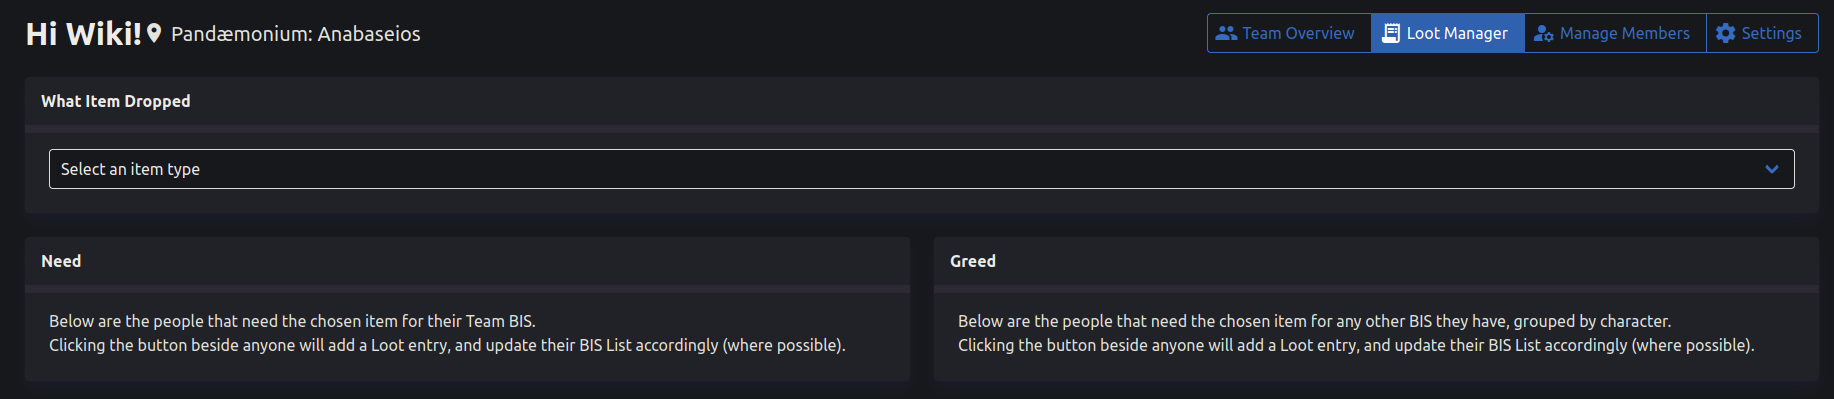
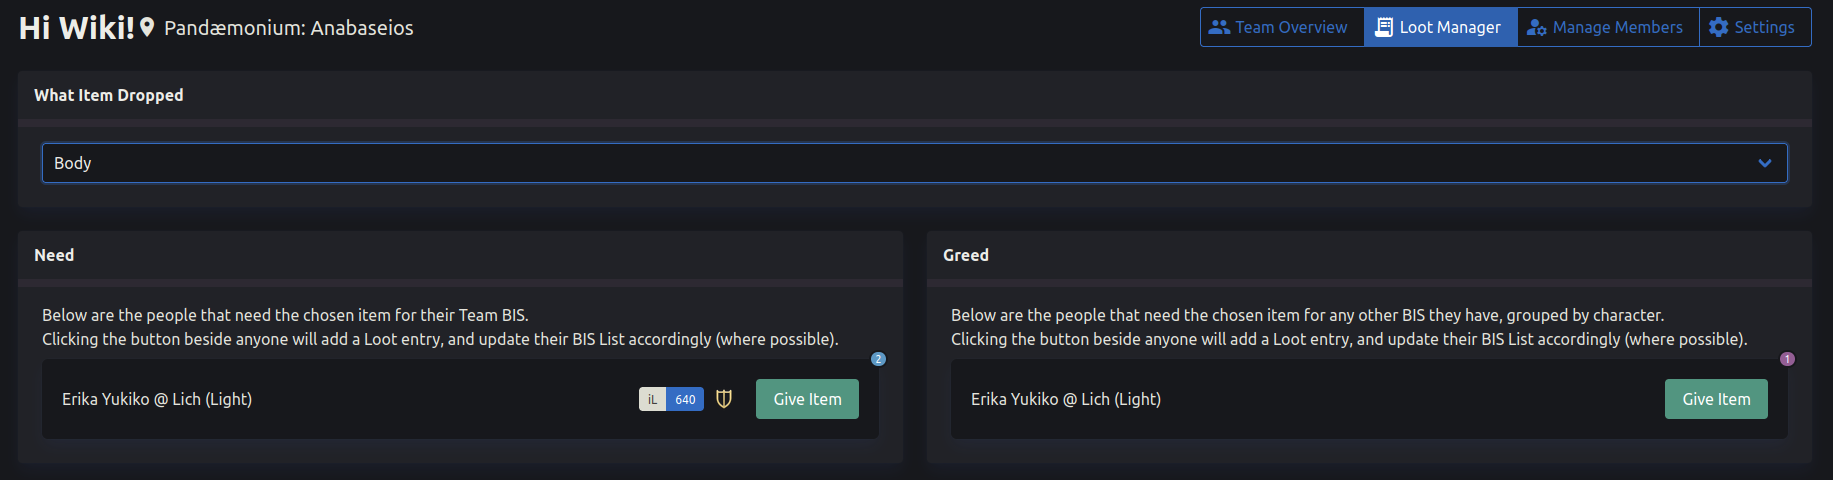
added the bones of a per fight loot manager

diff --git a/frontend/src/components/loot_manager/per_fight.vue b/frontend/src/components/loot_manager/per_fight.vue
@@ -1,0 +1,219 @@
+<template>
+  <div class="columns is-desktop is-multiline">
+    <div class="column is-full">
+      <div class="card">
+        <div class="card-header">
+          <div class="card-header-title">
+            Select a Fight
+          </div>
+        </div>
+        <div class="card-content">
+          <div class="field">
+            <div class="select is-fullwidth">
+              <select v-model="fight">
+                <option value="na">Select a Fight</option>
+                <option value="first">Anabaseios: The Ninth Circle</option>
+                <option value="second">Anabaseios: The Tenth Circle</option>
+                <option value="third">Anabaseios: The Eleventh Circle</option>
+                <option value="fourth">Anabaseios: The Twelfth Circle</option>
+              </select>
+            </div>
+          </div>
+
+          <!-- Display generic errors here -->
+          <div class="box has-background-danger" v-if="errors.greed !== undefined">
+            <b>Greed: </b> {{ errors.greed[0] }}
+          </div>
+          <div class="box has-background-danger" v-if="errors.greed_bis_id !== undefined">
+            <b>Greed BIS ID:</b> {{ errors.greed_bis_id[0] }}
+          </div>
+          <div class="box has-background-danger" v-if="errors.item !== undefined">
+            <b>Item: </b> {{ errors.item[0] }}
+          </div>
+          <div class="box has-background-danger" v-if="errors.member_id !== undefined">
+            <b>Member ID:</b> {{ errors.member_id[0] }}
+          </div>
+        </div>
+      </div>
+      <button class="button is-success is-fullwidth">Save Loot Assigments</button>
+    </div>
+
+    <div class="column" v-for="item in fightItems()" :key="item">
+      <div class="card">
+        <div class="card-header">
+          <div class="card-header-title">
+            {{ item }}
+          </div>
+        </div>
+        <div class="card-content">
+          <a class="box">
+            Select a Team Member
+          </a>
+        </div>
+      </div>
+    </div>
+  </div>
+</template>
+
+<script lang="ts">
+import dayjs from 'dayjs'
+import { Component, Prop, Vue } from 'vue-property-decorator'
+import GreedCharacterEntry from '@/components/loot/greed_character_entry.vue'
+import History from '@/components/loot/history.vue'
+import ItemDropdown from '@/components/item_dropdown.vue'
+import NeedRaidItemBox from '@/components/loot/need_raid_item_box.vue'
+import NeedTomeItemBox from '@/components/loot/need_tome_item_box.vue'
+import {
+  GreedGear,
+  GreedItem,
+  NeedGear,
+  Loot,
+  LootData,
+  LootPacket,
+  LootWithBISPacket,
+  TomeGreedGear,
+  TomeNeedGear,
+} from '@/interfaces/loot'
+import { LootCreateErrors, LootBISCreateErrors } from '@/interfaces/responses'
+
+@Component({
+  components: {
+    GreedCharacterEntry,
+    History,
+    ItemDropdown,
+    NeedRaidItemBox,
+    NeedTomeItemBox,
+  },
+})
+export default class PerFightLootManager extends Vue {
+  errors: LootBISCreateErrors = {}
+
+  fight = 'na'
+
+  @Prop()
+  loot!: LootData
+
+  @Prop()
+  requesting!: boolean
+
+  @Prop()
+  sendLoot!: (data: LootPacket) => Promise<LootCreateErrors | null>
+
+  @Prop()
+  sendLootWithBis!: (data: LootWithBISPacket) => Promise<LootBISCreateErrors | null>
+
+  @Prop()
+  userHasPermission!: boolean
+
+  get fightItemMap(): {[key: string]: string[]} {
+    // Temp solution
+    return {
+      na: [],
+      first: ['Earrings', 'Necklace', 'Bracelet', 'Ring'],
+      second: ['Head', 'Hands', 'Feet', 'Tome Accessory Augment', 'Tome Weapon Token'],
+      third: ['Body', 'Legs', 'Tome Armour Augment', 'Tome Weapon Augment'],
+      fourth: ['Mainhand', 'Mainhand', 'Mount'],
+    }
+  }
+
+  fightItems(): string[] {
+    return this.fightItemMap[this.fight]
+  }
+
+  getGreedReceived(entry: GreedGear): number {
+    // Given an entry, search the history and find how many times that Character has received greed loot so far this tier
+    return this.loot.history.reduce((sum: number, loot: Loot) => sum + (loot.member === entry.character_name && loot.greed ? 1 : 0), 0)
+  }
+
+  getNeedReceived(entry: NeedGear): number {
+    // Given an entry, search the history and find how many times that Character has received need loot so far this tier
+    return this.loot.history.reduce((sum: number, loot: Loot) => sum + (loot.member === entry.character_name && !loot.greed ? 1 : 0), 0)
+  }
+
+  // Functions to handle interacting with the API for handling loot handouts
+  giveGreedRaidLoot(entry: GreedGear, list: GreedItem): void {
+    const data = {
+      greed: true,
+      greed_bis_id: list.bis_list_id,
+      member_id: entry.member_id,
+      item: 'TODO fix this',
+      // item: this.displayItem,
+    }
+    this.trackBisLoot(data)
+  }
+
+  // Tome loot sends information using the non bis api -> tracks history, no BIS updates
+  giveGreedTomeLoot(entry: TomeGreedGear): void {
+    const data = {
+      greed: true,
+      obtained: dayjs().format('YYYY-MM-DD'),
+      member_id: entry.member_id,
+      item: 'TODO fix this',
+      // item: this.displayItem,
+    }
+    this.sendLoot(data)
+  }
+
+  giveNeedRaidLoot(entry: NeedGear): void {
+    const data = {
+      greed: false,
+      greed_bis_id: null,
+      member_id: entry.member_id,
+      item: 'TODO fix this',
+      // item: this.displayItem,
+    }
+    this.trackBisLoot(data)
+  }
+
+  giveNeedTomeLoot(entry: TomeNeedGear): void {
+    const data = {
+      greed: false,
+      obtained: dayjs().format('YYYY-MM-DD'),
+      member_id: entry.member_id,
+      item: 'TODO fix this',
+      // item: this.displayItem,
+    }
+    this.sendLoot(data)
+  }
+
+  // Helper function that sits inbetween the giveRaidLoot and sendLootWithBis functions
+  async trackBisLoot(data: LootWithBISPacket): Promise<void> {
+    this.errors = {}
+    const response = await this.sendLootWithBis(data)
+    if (response !== null) {
+      this.errors = response
+    }
+  }
+}
+</script>
+
+<style lang="scss">
+.card-content .box:first-of-type {
+  margin-top: 0.5rem;
+}
+
+.list-item:not(:last-child) {
+  margin-bottom: 1.5rem;
+}
+
+.list-item, .list-data, .left, .right {
+  display: flex;
+  align-items: center;
+
+  & .tags, .tag {
+    margin:0;
+  }
+}
+
+.list-item .tags {
+  margin-right: 0.5rem;
+}
+
+.list-data, .left {
+  flex-grow: 1;
+}
+
+.list-actions {
+  margin-left: 1.25rem;
+}
+</style>

diff --git a/frontend/src/views/team/loot.vue b/frontend/src/views/team/loot.vue
@@ -24,12 +24,22 @@
       </div>
 
       <!-- Select the Loot Manager Version -->
-      <LootManagerVersion1
+      <PerItemLootManager
         :loot="loot"
         :requesting="requesting"
         :send-loot="sendLoot"
         :send-loot-with-bis="sendLootWithBis"
         :user-has-permission="userHasLootManagerPermission"
+        v-if="version === 'item'"
+      />
+
+      <PerFightLootManager
+        :loot="loot"
+        :requesting="requesting"
+        :send-loot="sendLoot"
+        :send-loot-with-bis="sendLootWithBis"
+        :user-has-permission="userHasLootManagerPermission"
+        v-if="version === 'fight'"
       />
 
       <!-- Render the Tier History -->
@@ -49,7 +59,8 @@
 <script lang="ts">
 import { Component } from 'vue-property-decorator'
 import History from '@/components/loot/history.vue'
-import LootManagerVersion1 from '@/components/loot_manager/version_1.vue'
+import PerFightLootManager from '@/components/loot_manager/per_fight.vue'
+import PerItemLootManager from '@/components/loot_manager/per_item.vue'
 import TeamNav from '@/components/team/nav.vue'
 import {
   LootData,
@@ -64,7 +75,8 @@ import TeamViewMixin from '@/mixins/team_view_mixin'
 @Component({
   components: {
     History,
-    LootManagerVersion1,
+    PerFightLootManager,
+    PerItemLootManager,
     TeamNav,
   },
 })
@@ -79,6 +91,10 @@ export default class TeamLoot extends TeamViewMixin {
 
   get url(): string {
     return `/backend/api/team/${this.teamId}/loot/`
+  }
+
+  get version(): string {
+    return this.$store.state.user.loot_manager_version
   }
 
   async created(): Promise<void> {

diff --git a/frontend/src/components/settings/loot_manager.vue b/frontend/src/components/settings/loot_manager.vue
@@ -24,7 +24,7 @@
         <p>As a result, this "one item at a time" method made the most sense.</p>
       </template>
       <template v-if="lootManagerVersion === 'fight'">
-        <img src="/per_item_loot_mngr.png" alt="An example of the per item based loot manager" />
+        <img src="/per_fight_loot_mngr.png" alt="An example of the per item based loot manager" />
         <hr />
         <p>A new version of the Loot Manager that leverages the changes brought to savage loot in Pandæmonium: Anabaseios.</p>
         <p>Since fights can be expected to drop one of all of their potential drops every kill, it's possible to assign all the loot per fight in one go.</p>

diff --git a/frontend/src/components/loot_manager/per_item.vue b/frontend/src/components/loot_manager/per_item.vue
@@ -4,7 +4,7 @@
       <div class="card">
         <div class="card-header">
           <div class="card-header-title">
-            What Item Dropped
+            Select an Item
           </div>
         </div>
         <div class="card-content">
@@ -111,7 +111,7 @@ import { LootCreateErrors, LootBISCreateErrors } from '@/interfaces/responses'
     NeedTomeItemBox,
   },
 })
-export default class TeamLootManagerVersion1 extends Vue {
+export default class PerItemLootManager extends Vue {
   errors: LootBISCreateErrors = {}
 
   displayItem = 'na'
